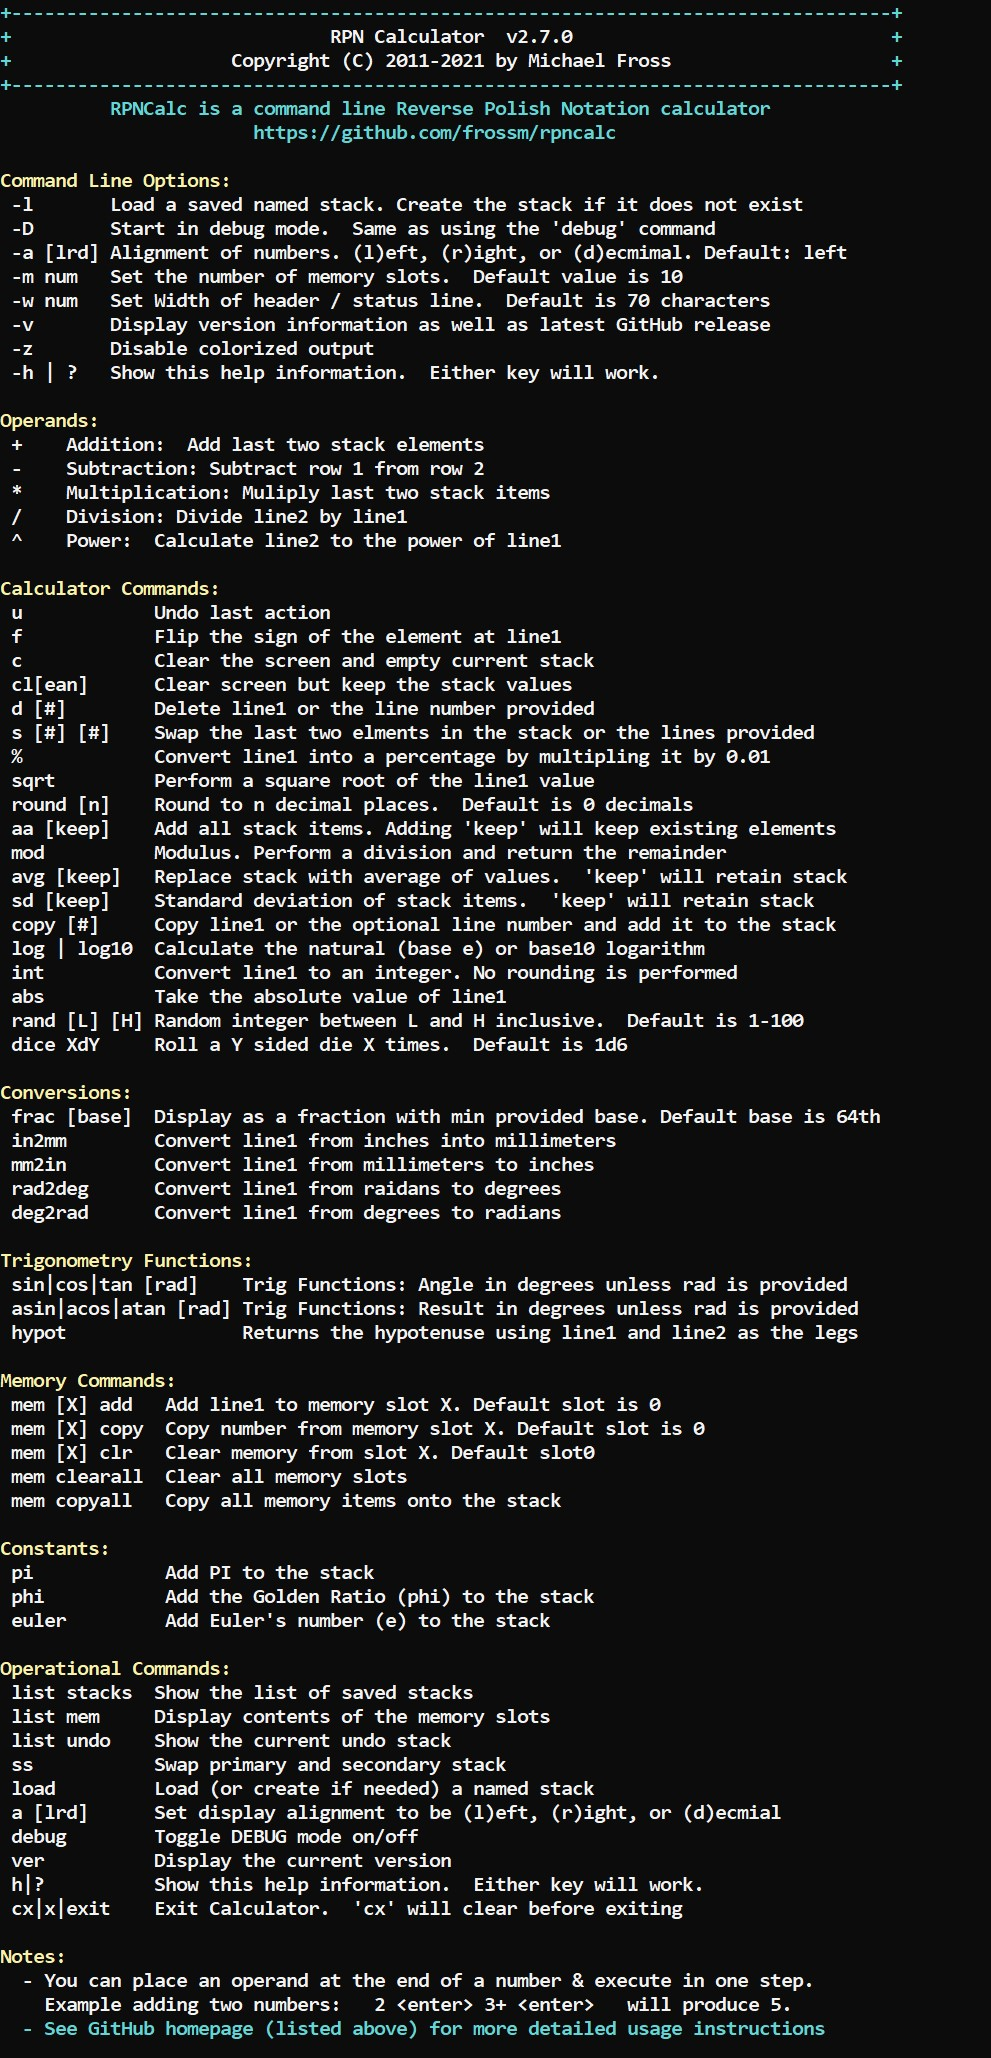
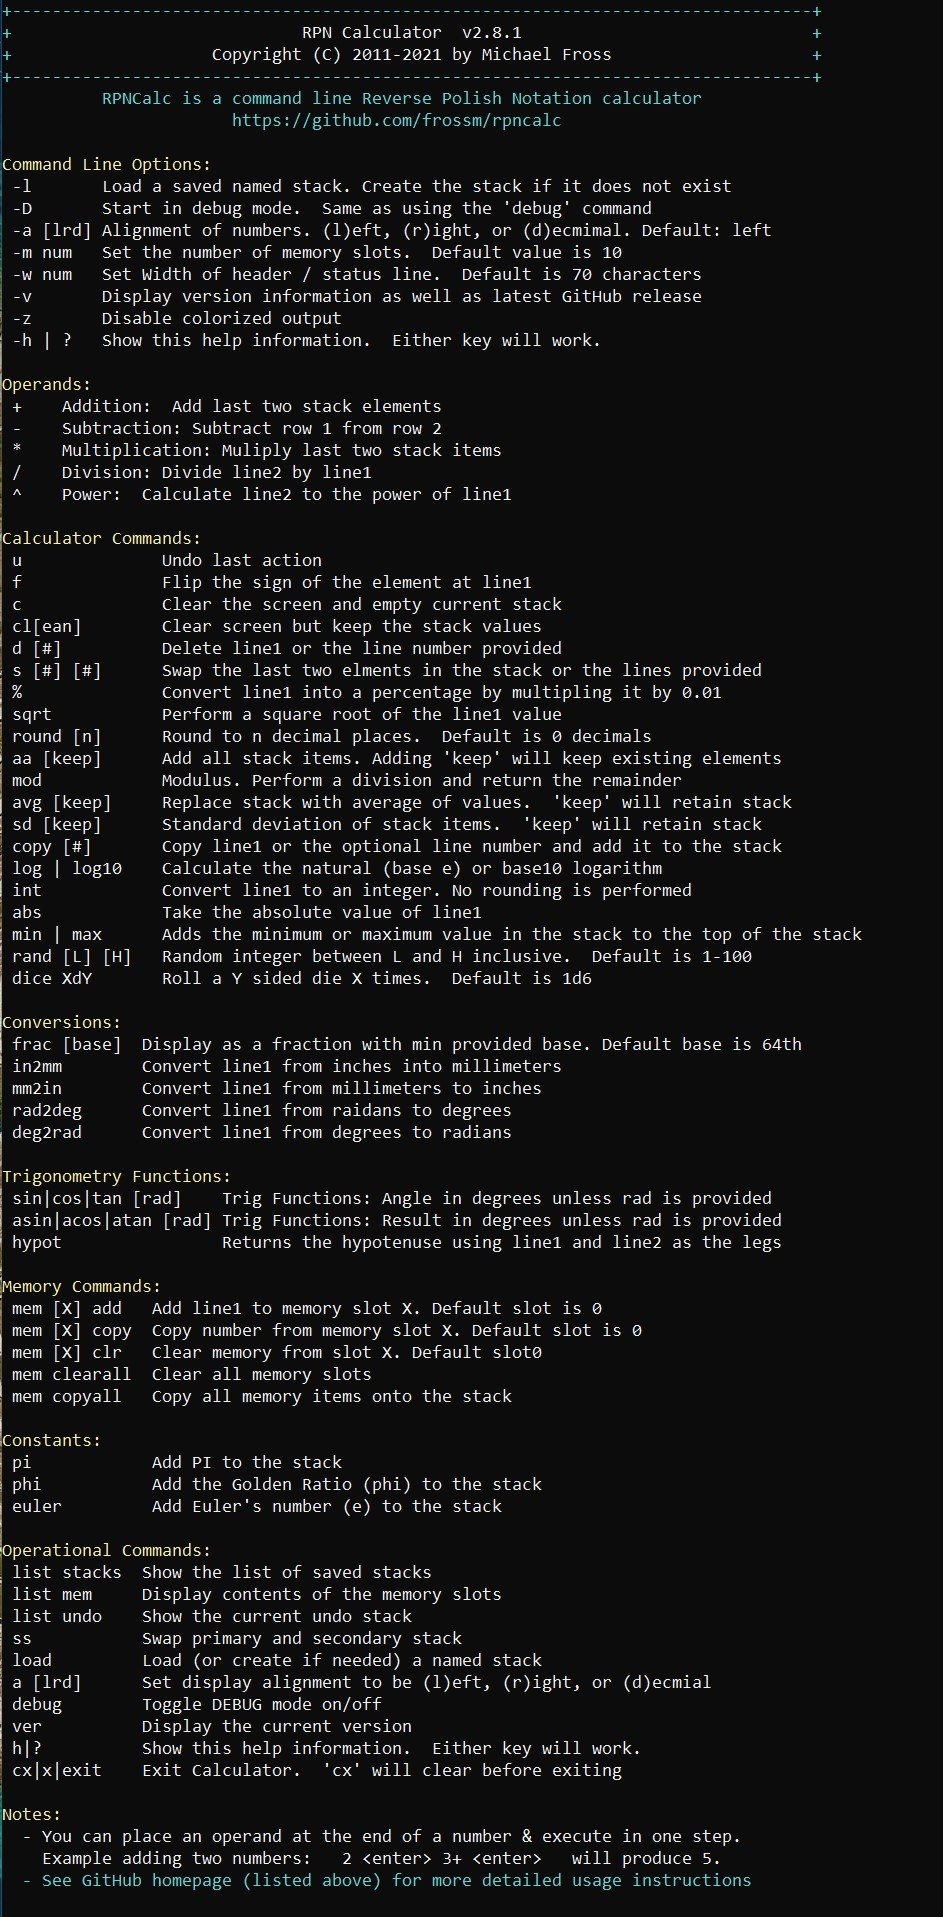
Added min and max command

Changed region(s): [[0.0, 0.0, 0.8918, 1.0], [0.8918, 0.0, 0.9226, 0.0308]]

diff --git a/src/main/java/org/fross/rpncalc/Main.java b/src/main/java/org/fross/rpncalc/Main.java
@@ -47,7 +47,6 @@ import gnu.getopt.Getopt;
  *
  */
 public class Main {
-
 	// Class Constants (or pseudo constants)
 	public static final String PROPERTIES_FILE = "app.properties";
 	public static int PROGRAMWIDTH = 70;
@@ -282,7 +281,7 @@ public class Main {
 			switch (cmdInputCmd) {
 
 			/*********************************************
-			 * Calculator Commands
+			 * Stack Commands
 			 *********************************************/
 			// Undo
 			case "undo":
@@ -390,6 +389,16 @@ public class Main {
 				StackCommands.cmdAbsoluteValue();
 				break;
 
+			// Minimum Value
+			case "min":
+				StackCommands.cmdMinimum();
+				break;
+
+			// Maximum Value
+			case "max":
+				StackCommands.cmdMaximum();
+				break;
+
 			// Random Number Generation
 			case "rand":
 			case "random":
@@ -402,7 +411,7 @@ public class Main {
 				break;
 
 			/*********************************************
-			 * Conversions
+			 * Stack Conversions
 			 *********************************************/
 			// Fraction
 			case "frac":
@@ -435,7 +444,7 @@ public class Main {
 				break;
 
 			/*********************************************
-			 * Trigonometry Functions
+			 * Stack Trigonometry Functions
 			 *********************************************/
 			// Trigonometry Functions
 			case "tan":
@@ -458,7 +467,7 @@ public class Main {
 				break;
 
 			/*********************************************
-			 * Memory Functions
+			 * Stack Memory Functions
 			 *********************************************/
 			case "memory":
 			case "mem":
@@ -490,7 +499,7 @@ public class Main {
 				break;
 
 			/*********************************************
-			 * Operational Commands
+			 * Stack Operational Commands
 			 *********************************************/
 			// List
 			// Supported commands are "stacks" | "mem" | "undo"

diff --git a/src/main/java/org/fross/rpncalc/StackCommands.java b/src/main/java/org/fross/rpncalc/StackCommands.java
@@ -34,7 +34,6 @@ import org.fross.library.Output;
 import org.fusesource.jansi.Ansi;
 
 public class StackCommands {
-
 	/**
 	 * cmdOperand(): An operand was entered such as + or -
 	 * 
@@ -548,6 +547,49 @@ public class StackCommands {
 		} else {
 			Output.printColorln(Ansi.Color.RED, "ERROR: Must be at least one item on the stack");
 		}
+	}
+	
+	
+	/** 
+	 * cmdMinimum(): Add minimum value in the stack to the top of the stack
+	 */
+	@SuppressWarnings("unchecked")
+	public static void cmdMinimum() {
+		Double lowestValue = Double.MAX_VALUE;
+		
+		// Save to undo stack
+		Main.undoStack.push((Stack<Double>) Main.calcStack.clone());
+		
+		// Loop through the stack and look for the lowest value
+		for (int i=0; i < Main.calcStack.size(); i++) {
+			if (Main.calcStack.get(i) < lowestValue)
+				lowestValue = Main.calcStack.get(i);
+		}
+		
+		// Add lowest value to the stack
+		Output.printColorln(Ansi.Color.CYAN, "Minimum value added to stack: " + lowestValue);
+		Main.calcStack.push(lowestValue);
+	}
+	
+	/** 
+	 * cmdMaximum(): Add minimum value in the stack to the top of the stack
+	 */
+	@SuppressWarnings("unchecked")
+	public static void cmdMaximum() {
+		Double largestValue = Double.MIN_VALUE;
+		
+		// Save to undo stack
+		Main.undoStack.push((Stack<Double>) Main.calcStack.clone());
+		
+		// Loop through the stack and look for the largest value
+		for (int i=0; i < Main.calcStack.size(); i++) {
+			if (Main.calcStack.get(i) > largestValue)
+				largestValue = Main.calcStack.get(i);
+		}
+		
+		// Add lowest value to the stack
+		Output.printColorln(Ansi.Color.CYAN, "Maximum value added to stack: " + largestValue);
+		Main.calcStack.push(largestValue);
 	}
 
 	/**

diff --git a/src/main/java/org/fross/rpncalc/Help.java b/src/main/java/org/fross/rpncalc/Help.java
@@ -86,6 +86,7 @@ public class Help {
 		Output.printColorln(Ansi.Color.WHITE, " log | log10  Calculate the natural (base e) or base10 logarithm");
 		Output.printColorln(Ansi.Color.WHITE, " int          Convert line1 to an integer. No rounding is performed");
 		Output.printColorln(Ansi.Color.WHITE, " abs          Take the absolute value of line1");
+		Output.printColorln(Ansi.Color.WHITE, " min | max    Adds the minimum or maximum value to the top of the stack");
 		Output.printColorln(Ansi.Color.WHITE, " rand [L] [H] Random integer between L and H inclusive.  Default is 1-100");
 		Output.printColorln(Ansi.Color.WHITE, " dice XdY     Roll a Y sided die X times.  Default is 1d6");
 

diff --git a/README.md b/README.md
@@ -146,6 +146,8 @@ When the second enter is pressed,  2 will be removed from the stack.  Added toge
 |log10|**LOGARITHM BASE 10:** Calculates the [base10 logarithm](https://en.wikipedia.org/wiki/Common_logarithm)|
 |int| **INTEGER:** Converts the top stack item (line 1) to it's integer value.  This will discard the decimal portion regardless of it's value.  For example: `4.34` will result in `4`.  `4.999` will also result in `4`. If rounding is desired, execute the `round` command prior to `int`|
 |abs| **ABSOLUTE VALUE:** Takes the [absolute value](https://en.wikipedia.org/wiki/Absolute_value#:~:text=In%20mathematics%2C%20the%20absolute%20value,and%20%7C0%7C%20%3D%200) of line 1.  The returns the positive value of the number|
+|Min|**MINIMUM VALUE:** Add the smallest value in the stack to the top of the stack|
+|Max|**MAXIMUM VALUE:** Add the largest value in the stack to the top of the stack|
 |rand \[low\] \[high\] | **RANDOM NUMBER GENERATION:** Generate a random integer number between the provided [l]ow and [h]igh numbers inclusive to both.  If no numbers are provided, then the random number will be between 1 and 100 inclusive|
 |dice XdY| **DICE ROLL:** Roll a Y sided die X times and add the results to the stack.  Default is 1d6. While not a normal calculator function, I find it fun|
 
